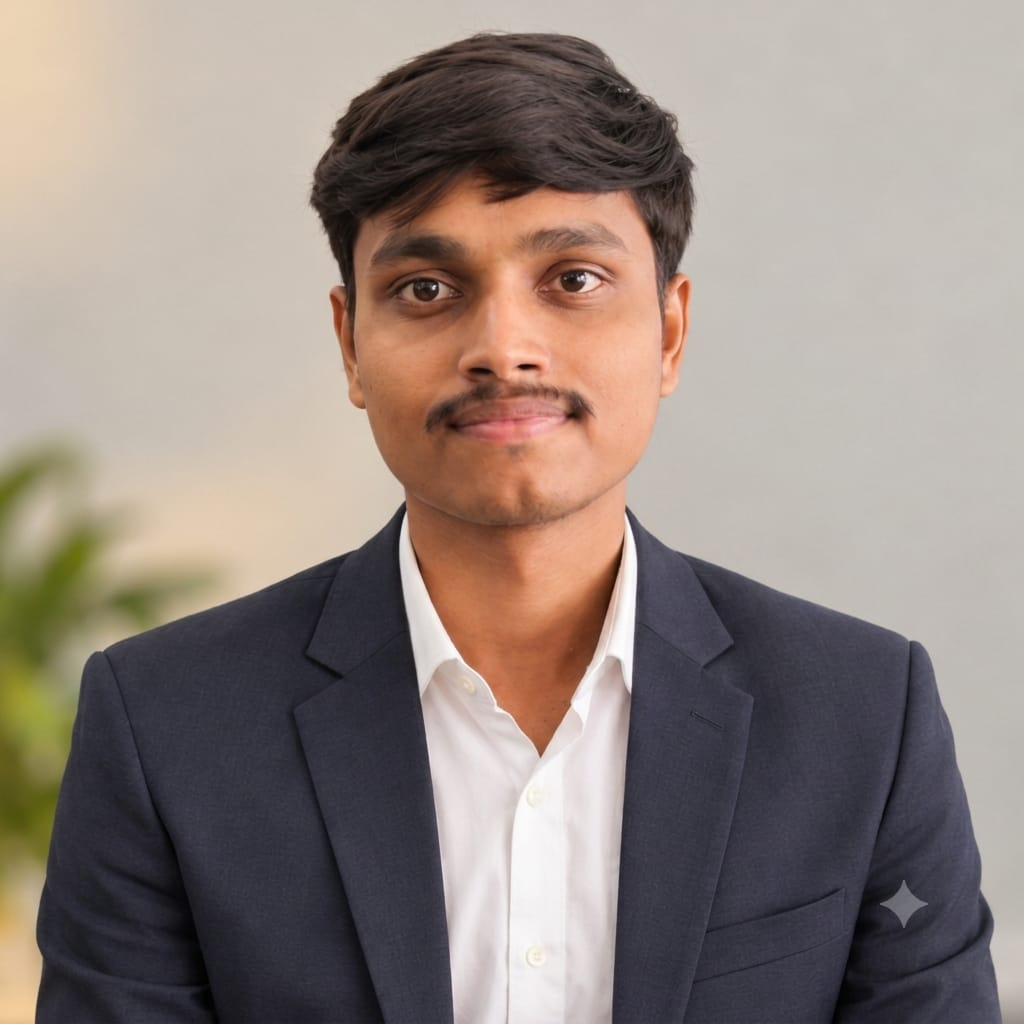
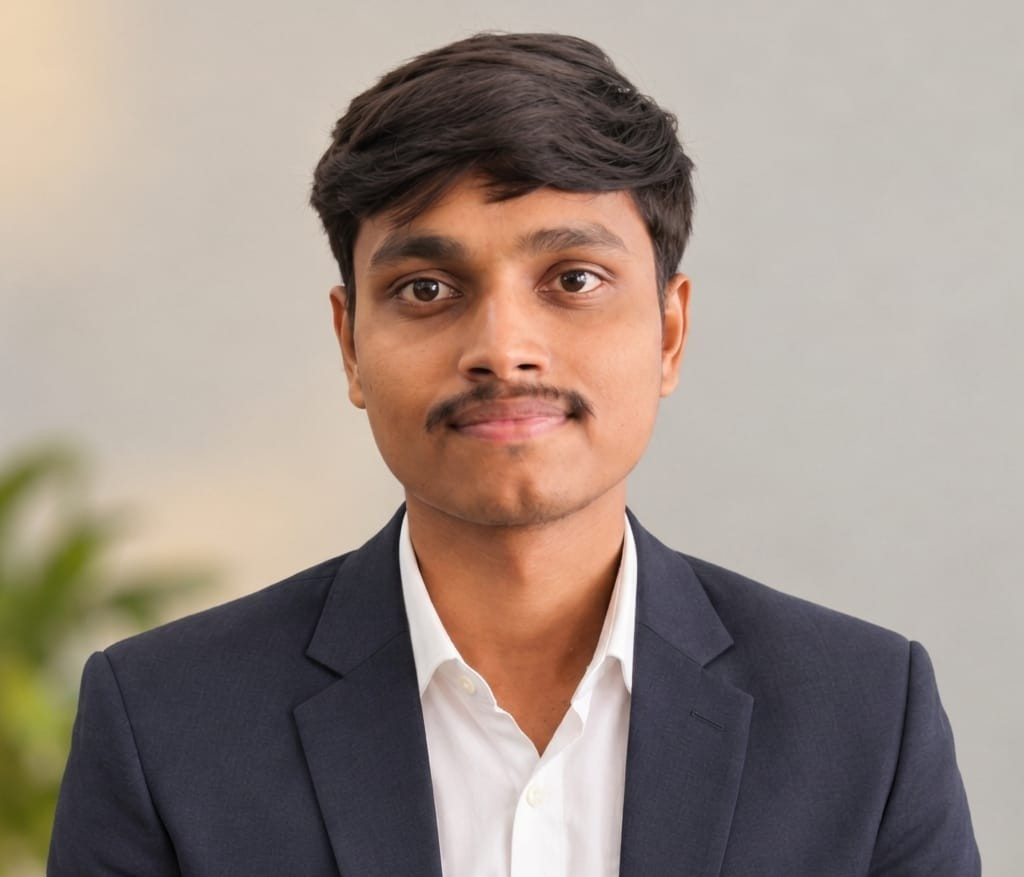
Add visible portrait to Hero section with reduced dimensions

diff --git a/app/components/Hero.tsx b/app/components/Hero.tsx
@@ -36,6 +36,16 @@ export default function Hero() {
               end-to-end products from data layer to interface.
             </p>
           </div>
+
+          <figure className={styles.portrait} data-reveal>
+            <img
+              src="/portrait.jpg"
+              alt="Mahantesh Patil"
+              width={600}
+              height={750}
+              loading="lazy"
+            />
+          </figure>
         </div>
 
         <div className={styles.heroFoot}>
@@ -53,8 +63,8 @@ export default function Hero() {
 
           <div className={styles.heroFootMeta}>
             <span>Kalaburagi · Karnataka · IN</span>
-            <a href="#statement" className={styles.scrollCue}>
-              <span>Scroll to read</span>
+            <a href="#work" className={styles.scrollCue}>
+              <span>View work</span>
               <span aria-hidden="true">↓</span>
             </a>
           </div>
